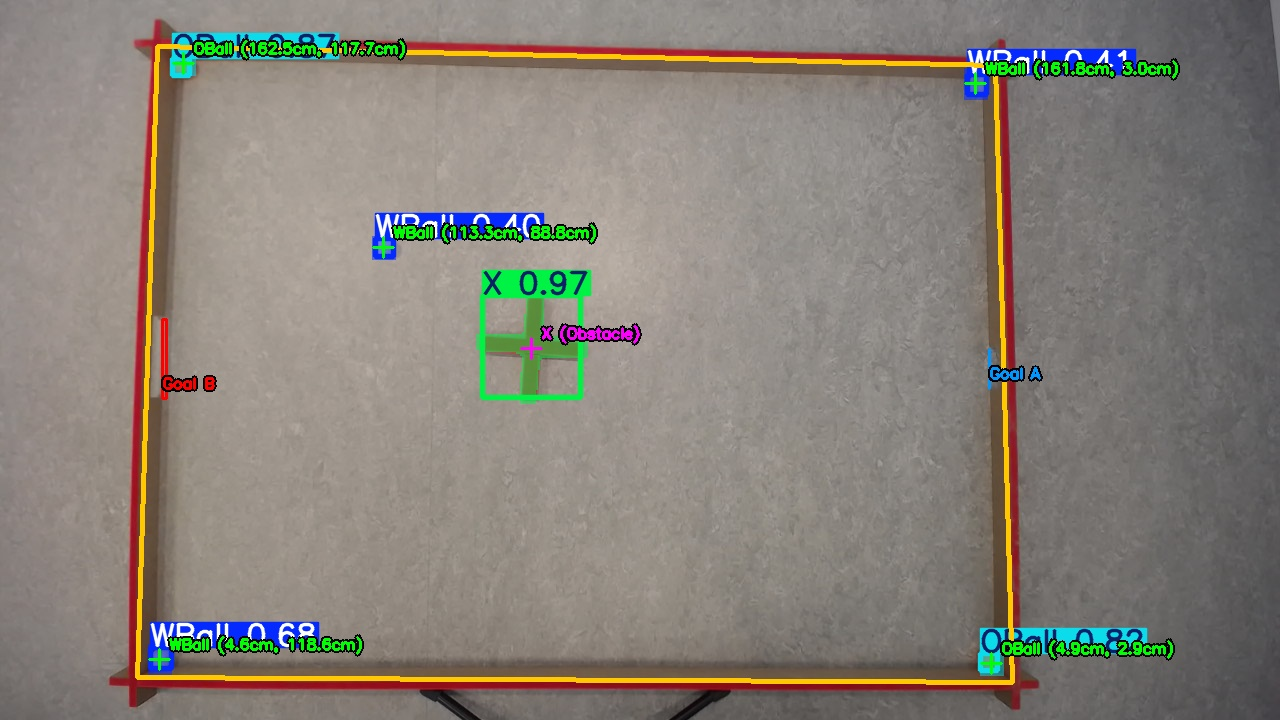
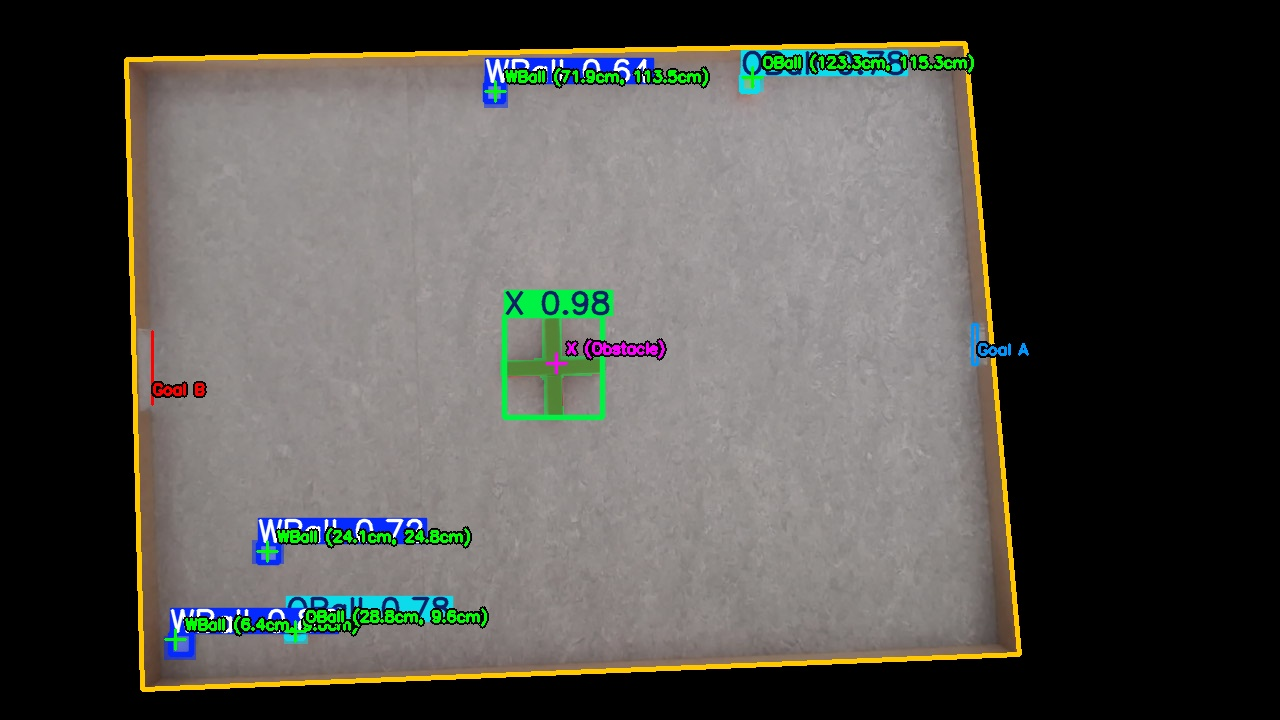
put scripts into scripts folder

diff --git a/image_recon/scripts/YOLO_controller.py b/image_recon/scripts/YOLO_controller.py
@@ -11,66 +11,30 @@ ARENA_W_CM = 167.0
 ARENA_H_CM = 121.5
 CONFIG_FILE = "image_recon/arena_config.json"
 
-# --- THE MAGIC OFFSETS ---
-OFFSET_X_CM = 1.5  # cm inward 
-OFFSET_Y_CM = 1.5  # cm inward 
-
 # Global variables
 corners = []
 goal_a_pts = []
 goal_b_pts = []
-setup_step = "FIND_ARENA"  # States: FIND_ARENA, GOAL_A, GOAL_B, DONE
+setup_step = "CORNERS"  # States: CORNERS, GOAL_A, GOAL_B, DONE
 
 # --- HELPER FUNCTIONS ---
 def draw_text_with_outline(img, text, pos, font_scale, color, thickness):
     cv2.putText(img, text, pos, cv2.FONT_HERSHEY_SIMPLEX, font_scale, (0, 0, 0), thickness + 3)
     cv2.putText(img, text, pos, cv2.FONT_HERSHEY_SIMPLEX, font_scale, color, thickness)
 
-def order_points(pts):
-    rect = np.zeros((4, 2), dtype="float32")
-    s = pts.sum(axis=1)
-    rect[0] = pts[np.argmin(s)] 
-    rect[2] = pts[np.argmax(s)] 
-    diff = np.diff(pts, axis=1)
-    rect[1] = pts[np.argmin(diff)] 
-    rect[3] = pts[np.argmax(diff)] 
-    return rect
-
-def find_red_arena(frame):
-    hsv = cv2.cvtColor(frame, cv2.COLOR_BGR2HSV)
-    lower_red1 = np.array([0, 100, 100])
-    upper_red1 = np.array([10, 255, 255])
-    lower_red2 = np.array([160, 100, 100])
-    upper_red2 = np.array([180, 255, 255])
-    
-    mask1 = cv2.inRange(hsv, lower_red1, upper_red1)
-    mask2 = cv2.inRange(hsv, lower_red2, upper_red2)
-    mask = cv2.bitwise_or(mask1, mask2)
-    
-    kernel = np.ones((5,5), np.uint8)
-    mask = cv2.morphologyEx(mask, cv2.MORPH_OPEN, kernel)
-    mask = cv2.morphologyEx(mask, cv2.MORPH_CLOSE, kernel)
-
-    contours, _ = cv2.findContours(mask, cv2.RETR_EXTERNAL, cv2.CHAIN_APPROX_SIMPLE)
-    
-    if contours:
-        largest_contour = max(contours, key=cv2.contourArea)
-        if cv2.contourArea(largest_contour) > 10000:
-            peri = cv2.arcLength(largest_contour, True)
-            approx = cv2.approxPolyDP(largest_contour, 0.02 * peri, True)
-            
-            if len(approx) == 4:
-                pts = approx.reshape(4, 2)
-                ordered_pts = order_points(pts)
-                tl, tr, br, bl = ordered_pts
-                return [tuple(bl), tuple(br), tuple(tr), tuple(tl)]
-    return None
-
 def handle_mouse(event, x, y, flags, param):
-    global goal_a_pts, goal_b_pts, setup_step
+    global corners, goal_a_pts, goal_b_pts, setup_step
     
     if event == cv2.EVENT_LBUTTONDOWN:
-        if setup_step == "GOAL_A":
+        if setup_step == "CORNERS":
+            if len(corners) < 4:
+                corners.append((x, y))
+                print(f"✓ Corner {len(corners)}/4 set: ({x}, {y})")
+                if len(corners) == 4:
+                    setup_step = "GOAL_A"
+                    print("\n-> Next: Click Top-Left then Bottom-Right of GOAL A (Right, Small)")
+                    
+        elif setup_step == "GOAL_A":
             if len(goal_a_pts) < 2:
                 goal_a_pts.append((x, y))
                 print(f"✓ Goal A Pt {len(goal_a_pts)}/2 set: ({x}, {y})")
@@ -84,7 +48,7 @@ def handle_mouse(event, x, y, flags, param):
                 print(f"✓ Goal B Pt {len(goal_b_pts)}/2 set: ({x}, {y})")
                 if len(goal_b_pts) == 2:
                     setup_step = "DONE"
-                    print("\n-> Setup Complete! Press ENTER to confirm or 'r' to restart.")
+                    print("\n-> Setup Complete! Press ENTER to confirm and save.")
 
 def load_calibration():
     global corners, goal_a_pts, goal_b_pts
@@ -117,9 +81,9 @@ def setup_arena(cap):
     corners.clear()
     goal_a_pts.clear()
     goal_b_pts.clear()
-    setup_step = "FIND_ARENA"
+    setup_step = "CORNERS"
 
-    print("\n--- ARENA SETUP ---")
+    print("\n--- MANUAL ARENA SETUP ---")
     print("Warming up camera...")
     for _ in range(5):
         ret, frame = cap.read()
@@ -134,44 +98,32 @@ def setup_arena(cap):
         if not ret: continue
         display = frame.copy()
 
-        if setup_step == "FIND_ARENA":
-            draw_text_with_outline(display, "1. Auto-detecting Red Arena borders...", (20, 40), 0.7, (0, 255, 255), 2)
-            detected_corners = find_red_arena(frame)
-            if detected_corners:
-                corners = detected_corners
-                pts = np.array(corners, dtype=np.int32)
-                cv2.polylines(display, [pts], isClosed=True, color=(0, 255, 255), thickness=3)
-                draw_text_with_outline(display, "Arena Found! Press ENTER to lock, or adjust lighting.", (20, 80), 0.7, (0, 255, 0), 2)
-            else:
-                corners.clear()
-                draw_text_with_outline(display, "No 4-corner red shape found. Ensure borders are visible.", (20, 80), 0.7, (0, 0, 255), 2)
-
+        if setup_step == "CORNERS":
+            draw_text_with_outline(display, f"1. Click 4 INSIDE Corners (BL, BR, TR, TL): {len(corners)}/4", (20, 40), 0.7, (0, 255, 255), 2)
         elif setup_step == "GOAL_A":
             draw_text_with_outline(display, f"2. GOAL A (Right, Small) - Click Top-Left then Bottom-Right: {len(goal_a_pts)}/2", (20, 40), 0.7, (255, 150, 0), 2)
-            if len(corners) == 4:
-                pts = np.array(corners, dtype=np.int32)
-                cv2.polylines(display, [pts], isClosed=True, color=(0, 255, 0), thickness=2)
-
         elif setup_step == "GOAL_B":
             draw_text_with_outline(display, f"3. GOAL B (Left, Large) - Click Top-Left then Bottom-Right: {len(goal_b_pts)}/2", (20, 40), 0.7, (0, 0, 255), 2)
-            if len(corners) == 4:
-                pts = np.array(corners, dtype=np.int32)
-                cv2.polylines(display, [pts], isClosed=True, color=(0, 255, 0), thickness=2)
-
         elif setup_step == "DONE":
-            draw_text_with_outline(display, "Setup Complete! Press ENTER to save | 'R' to reset", (20, 40), 0.7, (0, 255, 0), 2)
-            if len(corners) == 4:
-                pts = np.array(corners, dtype=np.int32)
-                cv2.polylines(display, [pts], isClosed=True, color=(0, 255, 0), thickness=2)
+            draw_text_with_outline(display, "Setup Complete! Press ENTER to lock and save | 'R' to reset", (20, 40), 0.7, (0, 255, 0), 2)
+
+        for i, (px, py) in enumerate(corners):
+            cv2.circle(display, (px, py), 7, (0, 255, 0), -1)
+        if len(corners) > 1:
+            pts = np.array(corners, dtype=np.int32)
+            cv2.polylines(display, [pts], isClosed=(len(corners) == 4), color=(0, 255, 0), thickness=2)
 
         if len(goal_a_pts) >= 1:
             cv2.circle(display, goal_a_pts[0], 5, (255, 150, 0), -1)
         if len(goal_a_pts) == 2:
             cv2.rectangle(display, goal_a_pts[0], goal_a_pts[1], (255, 150, 0), 2)
+            draw_text_with_outline(display, "Goal A", (goal_a_pts[0][0], goal_a_pts[0][1] - 10), 0.5, (255, 150, 0), 2)
+
         if len(goal_b_pts) >= 1:
             cv2.circle(display, goal_b_pts[0], 5, (0, 0, 255), -1)
         if len(goal_b_pts) == 2:
             cv2.rectangle(display, goal_b_pts[0], goal_b_pts[1], (0, 0, 255), 2)
+            draw_text_with_outline(display, "Goal B", (goal_b_pts[0][0], goal_b_pts[0][1] - 10), 0.5, (0, 0, 255), 2)
 
         cv2.imshow(window, display)
         key = cv2.waitKey(20) & 0xFF
@@ -180,13 +132,11 @@ def setup_arena(cap):
             corners.clear()
             goal_a_pts.clear()
             goal_b_pts.clear()
-            setup_step = "FIND_ARENA"
-        elif key == 13:
-            if setup_step == "FIND_ARENA" and len(corners) == 4:
-                setup_step = "GOAL_A"
-            elif setup_step == "DONE":
-                save_calibration()
-                break
+            setup_step = "CORNERS"
+            print("\n--- Setup Reset ---")
+        elif key == 13 and setup_step == "DONE":
+            save_calibration()
+            break
         elif key == ord('q'):
             cv2.destroyWindow(window)
             return False
@@ -195,12 +145,13 @@ def setup_arena(cap):
     return True
 
 def get_perspective_transform():
+    # Since we manually click the exact bounds, no offsets are needed.
     src = np.array(corners, dtype=np.float32)
     dst = np.array([
-        [OFFSET_X_CM,              OFFSET_Y_CM             ],
-        [ARENA_W_CM - OFFSET_X_CM, OFFSET_Y_CM             ],
-        [ARENA_W_CM - OFFSET_X_CM, ARENA_H_CM - OFFSET_Y_CM],
-        [OFFSET_X_CM,              ARENA_H_CM - OFFSET_Y_CM],
+        [0,          0         ],
+        [ARENA_W_CM, 0         ],
+        [ARENA_W_CM, ARENA_H_CM],
+        [0,          ARENA_H_CM],
     ], dtype=np.float32)
     M = cv2.getPerspectiveTransform(src, dst)
     M_inv = cv2.getPerspectiveTransform(dst, src)
@@ -230,6 +181,7 @@ def get_yolo_detections(results, model, M):
 
             ax, ay = to_arena_coords(cx, cy, M)
             
+            # Keep only items inside the arena bounds
             if ax < 0 or ax > ARENA_W_CM or ay < 0 or ay > ARENA_H_CM:
                 continue
             
@@ -247,9 +199,8 @@ def get_yolo_detections(results, model, M):
 
 def draw_arena_overlay(vis_frame, M_inv):
     if len(corners) == 4:
-        true_corners_cm = np.array([[[0.0, 0.0]], [[ARENA_W_CM, 0.0]], [[ARENA_W_CM, ARENA_H_CM]], [[0.0, ARENA_H_CM]]], dtype=np.float32)
-        true_corners_px = cv2.perspectiveTransform(true_corners_cm, M_inv)
-        cv2.polylines(vis_frame, [np.int32(true_corners_px)], isClosed=True, color=(0, 200, 255), thickness=3)
+        pts = np.array(corners, dtype=np.int32)
+        cv2.polylines(vis_frame, [pts], isClosed=True, color=(0, 200, 255), thickness=3)
 
     if len(goal_a_pts) == 2:
         cv2.rectangle(vis_frame, goal_a_pts[0], goal_a_pts[1], (255, 150, 0), 2)
@@ -275,6 +226,7 @@ def initialize_vision():
     """Call this from external scripts to setup the tracker without UI."""
     if not load_calibration():
         print("[ERROR] Cannot initialize vision. No calibration file found.")
+        print("Please run arena_tracker.py manually to calibrate the corners!")
         return None, None, None
         
     model = YOLO(MODEL_PATH)
@@ -283,10 +235,10 @@ def initialize_vision():
     return model, M, M_inv
 
 def scan(frame, model, M, M_inv):
-    """Call this from external scripts to process a frame and update the JSON."""
+    """Call this from external scripts to process a frame and safely update the JSON."""
     global corners, goal_a_pts, goal_b_pts
     
-    # 1. Apply Blackout Mask
+    # Apply Blackout Mask
     mask = np.zeros(frame.shape[:2], dtype=np.uint8)
     if len(corners) == 4:
         pts = np.array(corners, dtype=np.int32)
@@ -294,26 +246,23 @@ def scan(frame, model, M, M_inv):
     
     masked_frame = cv2.bitwise_and(frame, frame, mask=mask)
     
-    # 2. Run YOLO
+    # Run YOLO
     results = model(masked_frame, verbose=False, conf=0.25)[0]
     detections = get_yolo_detections(results, model, M)
 
-    # 3. Construct JSON Output
+    # Construct JSON Output
     goal_a_cm = [{"x": to_arena_coords(pt[0], pt[1], M)[0], "y": to_arena_coords(pt[0], pt[1], M)[1]} for pt in goal_a_pts] if len(goal_a_pts) == 2 else []
     goal_b_cm = [{"x": to_arena_coords(pt[0], pt[1], M)[0], "y": to_arena_coords(pt[0], pt[1], M)[1]} for pt in goal_b_pts] if len(goal_b_pts) == 2 else []
-
-    true_corners_cm = np.array([[[0.0, 0.0]], [[ARENA_W_CM, 0.0]], [[ARENA_W_CM, ARENA_H_CM]], [[0.0, ARENA_H_CM]]], dtype=np.float32)
-    true_corners_px = cv2.perspectiveTransform(true_corners_cm, M_inv)
 
     robot_data = {
         "arena": {
             "width_cm": ARENA_W_CM,
             "height_cm": ARENA_H_CM,
             "corners_pixel": [
-                {"position": "bottom-left", "x": round(float(true_corners_px[0][0][0]), 1), "y": round(float(true_corners_px[0][0][1]), 1)},
-                {"position": "bottom-right", "x": round(float(true_corners_px[1][0][0]), 1), "y": round(float(true_corners_px[1][0][1]), 1)},
-                {"position": "top-right", "x": round(float(true_corners_px[2][0][0]), 1), "y": round(float(true_corners_px[2][0][1]), 1)},
-                {"position": "top-left", "x": round(float(true_corners_px[3][0][0]), 1), "y": round(float(true_corners_px[3][0][1]), 1)}
+                {"position": "bottom-left", "x": corners[0][0], "y": corners[0][1]},
+                {"position": "bottom-right", "x": corners[1][0], "y": corners[1][1]},
+                {"position": "top-right", "x": corners[2][0], "y": corners[2][1]},
+                {"position": "top-left", "x": corners[3][0], "y": corners[3][1]}
             ] if len(corners) == 4 else []
         },
         "goals": {"A": goal_a_cm, "B": goal_b_cm},
@@ -337,14 +286,14 @@ def scan(frame, model, M, M_inv):
     
     json_output = json.dumps(robot_data, indent=2)
 
-    # 4. Atomic Save
+    # Atomic Save
     temp_file = "image_recon/robot_coords_temp.json"
     final_file = "image_recon/robot_coords.json"
     with open(temp_file, "w") as json_file:
         json_file.write(json_output)
     os.replace(temp_file, final_file) 
     
-    # 5. Draw visual frame for returning
+    # Draw visual frame for returning
     vis_frame = results.plot()
     vis_frame = draw_arena_overlay(vis_frame, M_inv)
     vis_frame = draw_positions(vis_frame, detections)
@@ -405,7 +354,6 @@ def main():
         do_scan = continuous_mode or (key == ord('s'))
 
         if do_scan:
-            # We call the newly abstracted scan function
             robot_data, vis_frame = scan(frame, model, M, M_inv)
 
             if key == ord('s'):
